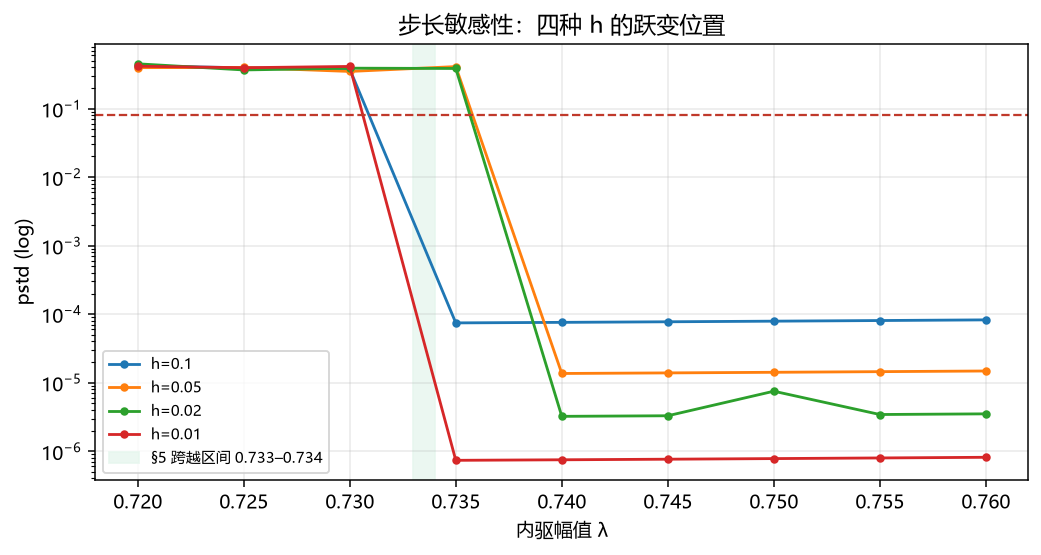
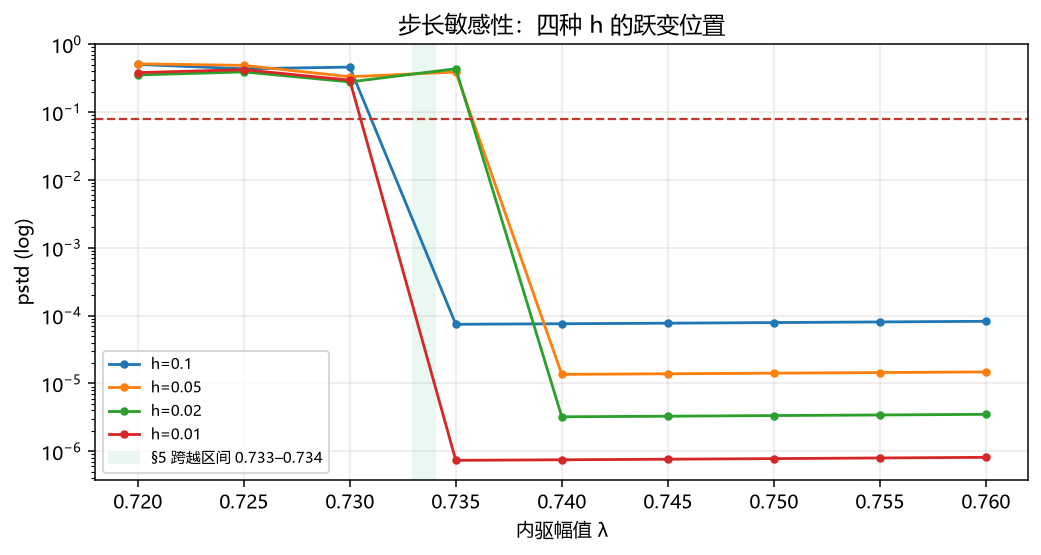
记忆：记录单一内核收敛与生成器双份真相的教训

diff --git a/.workbuddy/memory/2026-11-24.md b/.workbuddy/memory/2026-11-24.md
@@ -119,3 +119,18 @@ drive = lambda t, h: (lam*np.cos(beta*t) + gamma*np.cos(theta*t), ...)   # 错
 
 **验证**：4 份 notebook 实跑 0 报错（learn/2 104 s、learn/all 102 s、复现-2 118 s、learn/3 119 s；learn/3 从 427 s 降下来靠标量快路径）；全项目 `simulate(` 计数归零，各 notebook 只剩 1 个 `def simulate_seq`；静态副本重建，911 条本地引用 0 失效。commit `b060537`。
 
+## 00:20（次日）全项目收敛到唯一内核 kernel_src.py
+
+**问题**：上一轮只改了 4 份 notebook，**生成器没改**——`build_stage3_notebook.py` 里还内联着旧的 `simulate()`，下次重跑生成器就会把旧内核写回去。阶段 4 的 `simulate_mc`、s2 书的 `s2sim.simulate`（唯一带 `nu` 参数的那个）也都还在。
+
+**做法：单一来源**。`tools/kernel_src.py` 存 `KERNEL_SRC`（`simulate_seq` 源码正文）+ `load_kernel()`。生成器拼字符串进 notebook（notebook 保持自包含、不 import），s2 书用 `load_kernel()` 加载 → `s2sim.simulate_seq` 与 notebook 逐字相同。`tests/test_kernel_contract.py` 16 项守四条：禁 `def simulate(`、每份 notebook 恰好一个内核、**内核正文必须等于 KERNEL_SRC**、数值与路径一致性。
+
+**阶段 3**：把 `learn/3.ipynb` 的 26 个单元逐块回写进生成器（脚本 `.workbuddy/tmp/sync_gen_from_nb.py`，1:1 校验后替换），内核块换 `KERNEL_SRC` 拼接，重新生成后与既有 notebook **逐字一致**，所以没重跑。
+
+**阶段 4**：`simulate_mc` → `pstd_mc`，不再是第三个积分器，只把 `γcos(t+θ)+σ·noise[i]` 折成序列再调 `simulate_seq(R=1, h1=h)`。**噪声中点从"整步保持"变"相邻样本均值"** → pstd 中位差 3~6%，Pd 在阈值附近动几个百分点。重跑 186 s：最低可检测 SNR 仍 −11.0 dB（Pd 白 0.96 / 色 0.90），但估计精度区间变了（白 3.8–5.8%、色 3.4–9.2%、θ ≤3.5°、融合 0.26/0.32→0.50/0.64）。**06-阶段四两份文档的原表其实比 JSON 还旧一代**（Pd 行、门限 0.443/0.435 都对不上旧 JSON），一并改齐。
+
+**s2 书**：`s2sim.py` 删 `simulate`（唯一带 `nu` 的），改成 `load_kernel()` 薄封装 + `tone()` 造样本 + `phi_diagnostic()`；`experiments.py` 15 处调用全改；`exp_nu` 原用 `nu=` 扫，现在固定 R=10、逐点按真值造样本（h1 仍 2π/300），图上只剩 ν=1 一个点塌到 0，与"带宽 ±0.1%"自洽。九章重跑全 OK、jupyter-book 重建；`sweep`/`snr` 数据完全一致，`nu` 的盲测命中与三真值定位逐字不变，`fig5` 仍只有 R=10 β=−120° 是周期（pstd 0.0）。表 3 新值：λ 0.7431/0.7238/0.7429、γ −32%、θ −135.7°。
+
+**不并入、已注明理由**：`simulate_fixed`（阶段 5，定点复刻，存在意义就是和浮点对比，重跑后 67 键 0 差异）；`c2sim.simulate(t, drive)`（C2 强耦合双振子、外部序列驱动，无待测频率问题，文档写清了）。
+
+**纪律**：改生成器必须重新生成并 diff，否则"改了没生效"或"手改被覆盖"两头都看不见——这次的教训是**生成器与 notebook 是双份真相**，所以要用测试把两者钉在同一个字符串上（`test_notebook_kernel_matches_shared_source`）。
